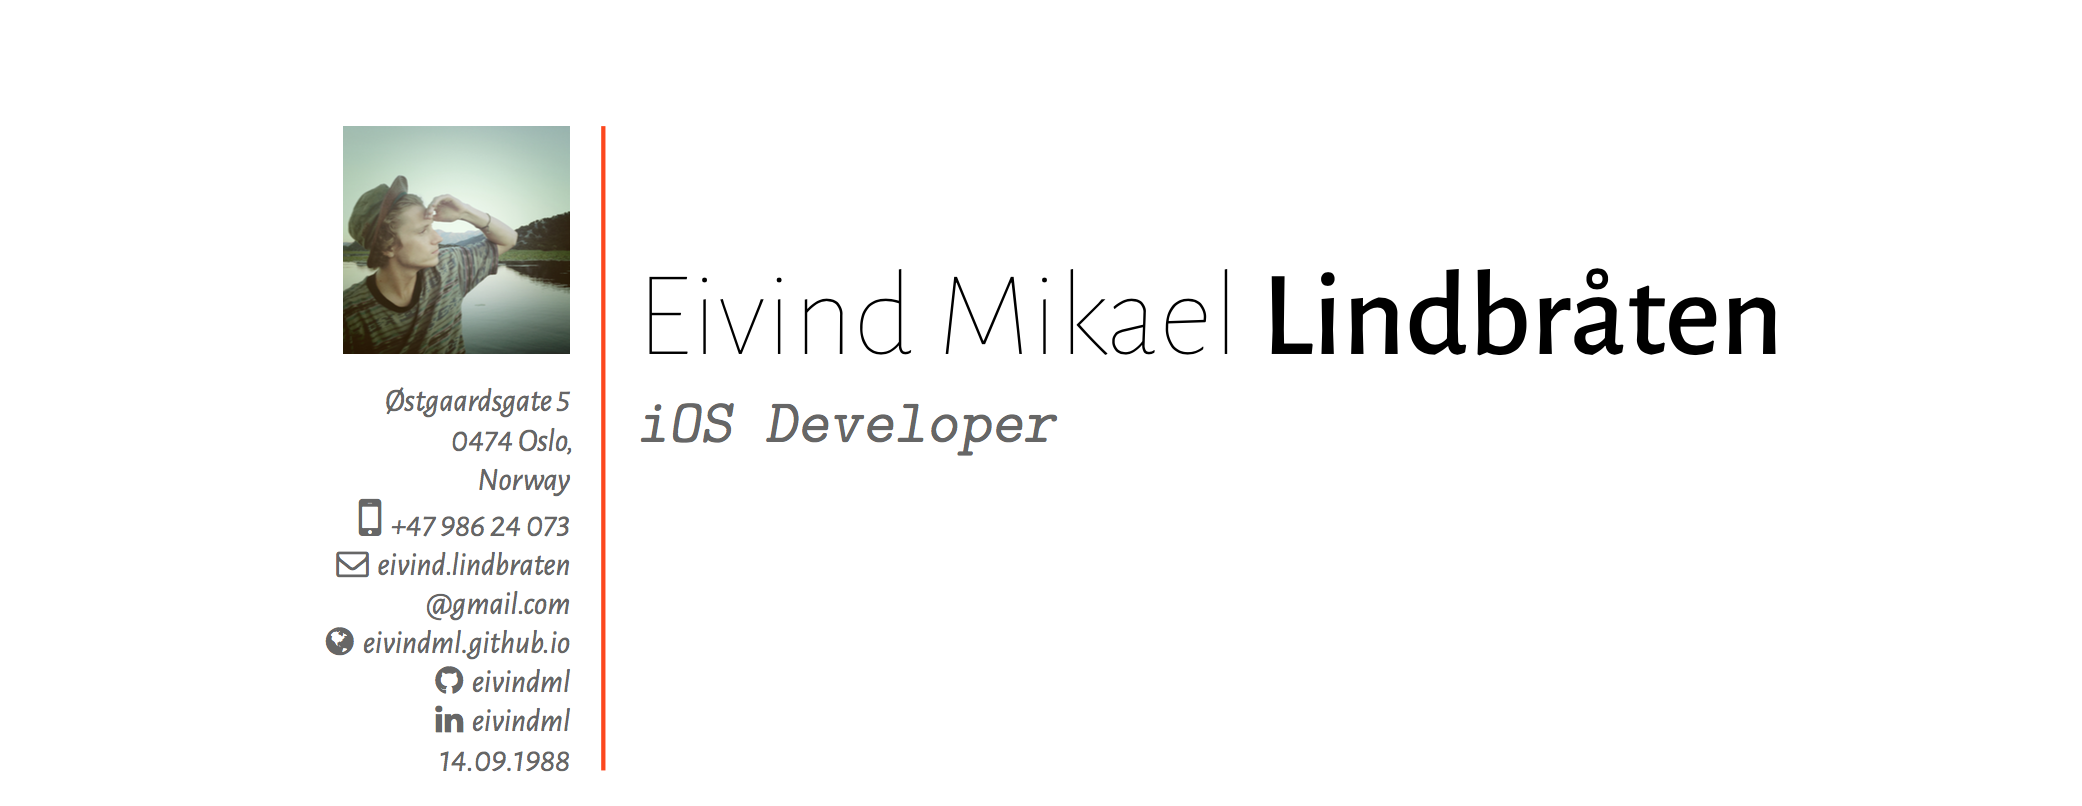
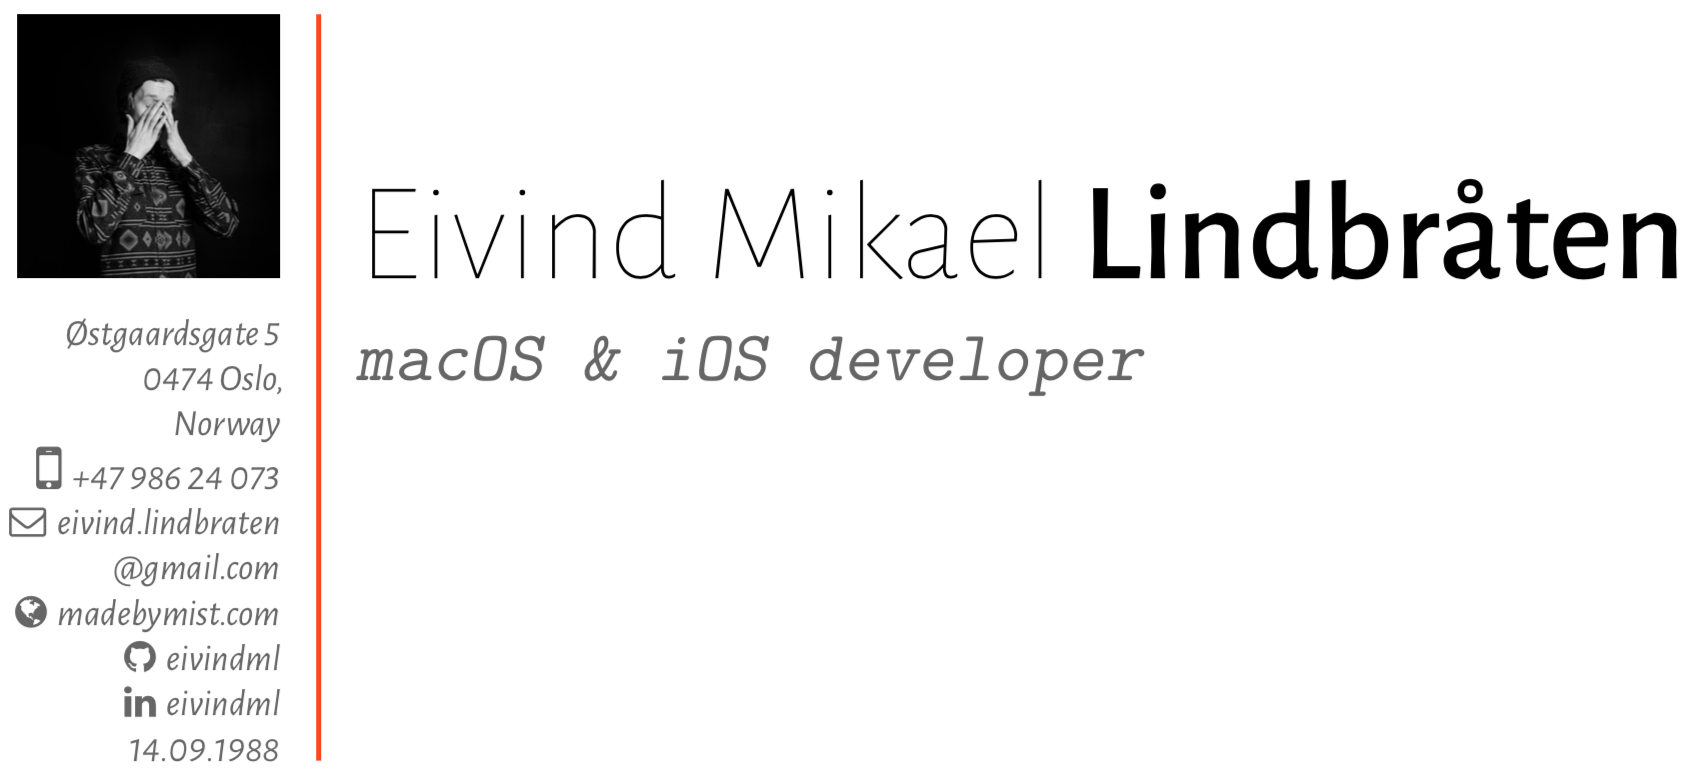
Update text for work and certificates

Changed region(s): [[0.0, 0.0, 1.0, 0.9538], [0.0614, 0.9538, 0.1842, 0.9846], [0.0, 0.5538, 0.0307, 0.5846]]

diff --git a/sections/work.tex b/sections/work.tex
@@ -1,10 +1,9 @@
 \section{Relevant Work}
 
 \cventry{2015--2017}{Ways AS}{Co-founder \& developer}{}{}{
- Co-founded the mobile app and web development company Ways AS in 2015. 
- , a company focusing on mobile app development and web development. This gave me a huge experience increase in administration and how to run a company and project management of larger projects spanning almost a year, including research, design, web/backend iOS and Android development and testing. As a developer I was mainly responsible for web related development, including Wordpress, node.js, server configuration and front-end development. I also completely designed, developed and tested one of our client apps during this period. This period was a huge learning curve and really valuable.
+In 2009 I co-founded Ways AS, a web and app development company in Norway, and helped it grow to 5 employees. I had varying responsebilities, from administrative tasks to project leader and iOS and web developer. With Ways I got the chance to work on big year-long projects, and learn all the parts of making great products. From client workshops and research, to design, interviews of involved external partners, payment solutions and iOS, Android and backend development.
 }
 
 \cventry{2009--}{Freelance developer}{}{}{}{
- I've been freelancing since 2009, where I started to do some web/wordpress development for clients. Since then this has been my main source of income, during my studies. Languages and technologies used: php, wordpress, mysql, swift, node.js, front-end (sass, gulp, pug, js), ruby, Java, python and Arduino code.
+Since 2009 freelancing have mainly been my main source of income. I've worked in various trades, but a big part of it was technical installations and mounting at various exhibitions. During my studies I transitioned into working with web development. Now I mainly focus on iOS and macOS development, and some front-end and Node.js development. I also work on self-initated projects, and have multiple apps in the Apple App Store.
 }

diff --git a/sections/keywords.tex b/sections/keywords.tex
@@ -1,2 +1,5 @@
 \section{Keywords}
-\cvitem{}{Detail oriented, interessted in things at micro and macro level, ambitious, always curious and love to learn, visual experience, process oriented}
+
+\cvitem{Personal}{Detail oriented, interessted in things at micro and macro level, ambitious, always curious and love to learn, visual experience, process oriented}
+
+\cvitem{Languages}{Swift (iOS \& macOS), Node.js, HTML/CSS/JS (prefer gulp/SASS/coffescript with gulp build system), Java, C++}

diff --git a/sections/certificates.tex b/sections/certificates.tex
@@ -1,4 +1,4 @@
 \section{Certificates}
 \cventry{}{Aerial apparatus opperator}{Oslo Liftutleie}{}{}{
-    Certified aerial apparatus opperator up to XXm!
+While working with exhibition mounting, I worked at some large venues, where it was nececery to have certificate opperationg aerial apparatus. Through Oslo Liftutleie I have this certificate (personløfterkurs).
 }

diff --git a/eivindml-cv.tex b/eivindml-cv.tex
@@ -36,6 +36,6 @@
 \input{sections/volunteer-work}
 \input{sections/certificates}
 \input{sections/keywords}
-\input{sections/references}
+%\input{sections/references}
 
 \end{document}
